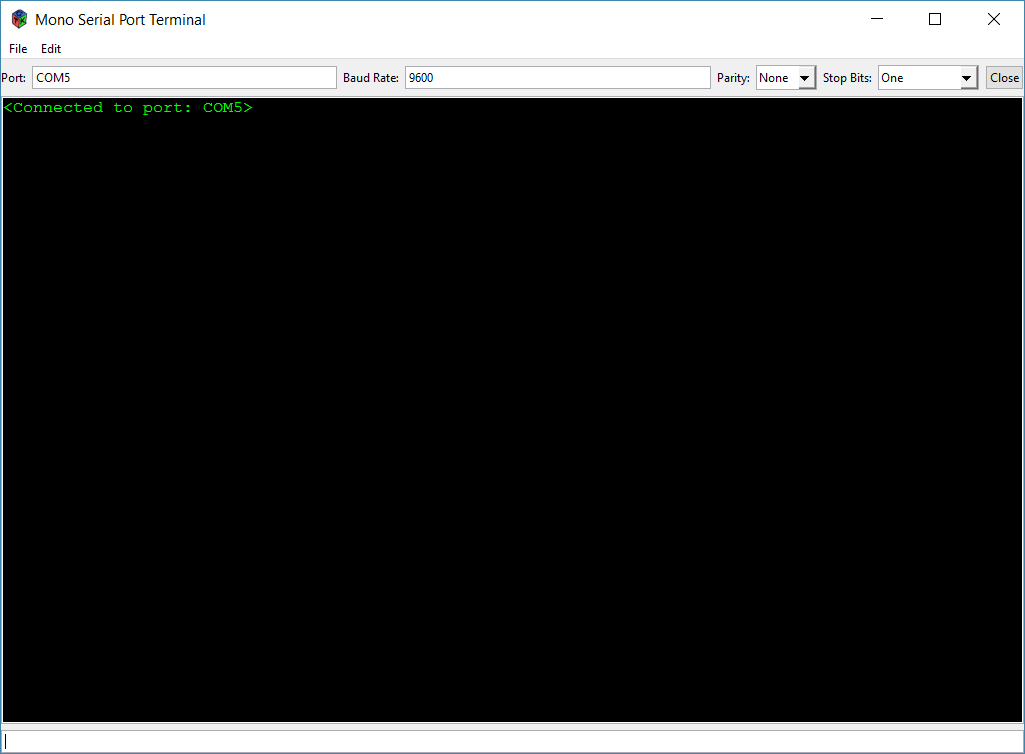
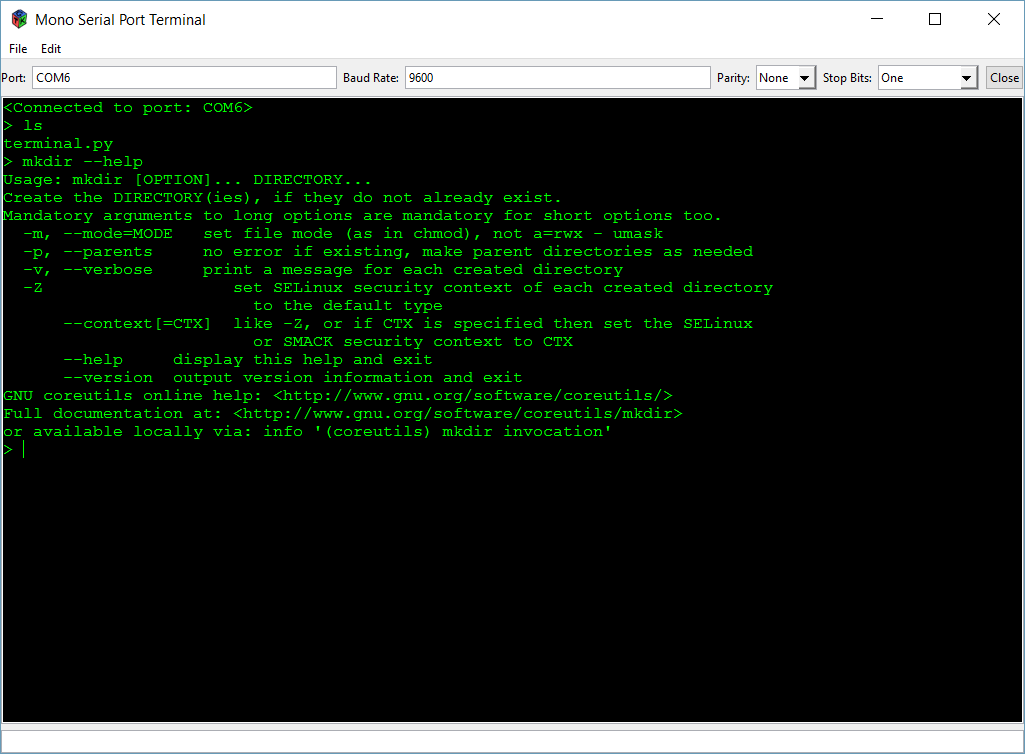
Improved message output. Updated screenshot.

diff --git a/trunk/MonoSerial/MainWindow.cs b/trunk/MonoSerial/MainWindow.cs
@@ -131,7 +131,7 @@ public partial class MainWindow : Gtk.Window
 
     protected void OutputText(string aText)
     {
-
+	           
         if (_settings.AppendOption == MonoSerial.SettingsDialog.Append.CR)
             aText += "\r";
         else if (_settings.AppendOption == MonoSerial.SettingsDialog.Append.LF)
@@ -147,7 +147,7 @@ public partial class MainWindow : Gtk.Window
 	protected void OutputMessage(string aText)
 	{
 
-		this.txtSerialData.Buffer.Text += aText;
+		this.txtSerialData.Buffer.Text += aText + Environment.NewLine;
 		this.txtSerialData.ScrollToIter(this.txtSerialData.Buffer.EndIter, 0, false, 0, 0);
 
 	}
@@ -332,7 +332,7 @@ public partial class MainWindow : Gtk.Window
 
                 this.txtSerialData.IsFocus = true;
 
-                OutputText("<Connected to port: " + txtPort.Text + ">" + Environment.NewLine);
+                OutputMessage("<Connected to port: " + txtPort.Text + ">");
 
                 _t1 = new Thread(ReadData);
                 _t1.Start();
@@ -341,7 +341,7 @@ public partial class MainWindow : Gtk.Window
             catch (Exception)
             {
 
-                OutputText("Error: Unable to open port: " + txtPort.Text + Environment.NewLine);
+                OutputMessage("Error: Unable to open port: " + txtPort.Text);
 
             }
 
@@ -355,7 +355,7 @@ public partial class MainWindow : Gtk.Window
                 _serialPort.Close();
                 this.cmdConnect.Label = "Open";
 
-                OutputText("<Connection closed.>" + Environment.NewLine);
+                OutputMessage("<Connection closed.>");
 
                 _t1.Join();
 
@@ -363,7 +363,7 @@ public partial class MainWindow : Gtk.Window
             catch (Exception)
             {
 
-                OutputText("Error: closing connection." + Environment.NewLine);
+                OutputMessage("Error: closing connection.");
 
             }
 
@@ -405,13 +405,13 @@ public partial class MainWindow : Gtk.Window
                     }
                 }
 
-                OutputMessage("File sent: " + aFileChooser.Filename + Environment.NewLine);
+                OutputMessage("File sent: " + aFileChooser.Filename);
 
             }
             catch (Exception)
             {
 
-                OutputMessage("Error: Unable to write data to serial port." + Environment.NewLine);
+                OutputMessage("Error: Unable to write data to serial port.");
 
             }
 
@@ -459,7 +459,7 @@ public partial class MainWindow : Gtk.Window
 		catch (Exception)
 		{
 
-			OutputMessage("Error: Unable to write data to serial port." + Environment.NewLine);
+			OutputMessage("Error: Unable to write data to serial port.");
 
 		}
 
@@ -488,6 +488,8 @@ public partial class MainWindow : Gtk.Window
 			key == Gdk.Key.Alt_R ||
 			key == Gdk.Key.Alt_L ||
 		  	key == Gdk.Key.Caps_Lock ||
+		  	key == Gdk.Key.Num_Lock ||
+		    key == Gdk.Key.Scroll_Lock ||
 		    key == Gdk.Key.Print ||
 		 	key == Gdk.Key.Home ||
 		 	key == Gdk.Key.End ||
@@ -508,7 +510,18 @@ public partial class MainWindow : Gtk.Window
 		   	key == Gdk.Key.F9 ||
 		   	key == Gdk.Key.F10 ||
 			key == Gdk.Key.F11 ||
-		 	key == Gdk.Key.F12)
+		 	key == Gdk.Key.F12 ||
+			key == Gdk.Key.KP_Multiply ||
+			key == Gdk.Key.KP_Divide ||
+			key == Gdk.Key.KP_1 ||
+			key == Gdk.Key.KP_2 ||
+			key == Gdk.Key.KP_3 ||
+			key == Gdk.Key.KP_4 ||
+			key == Gdk.Key.KP_5 ||
+			key == Gdk.Key.KP_6 ||
+			key == Gdk.Key.KP_7 ||
+			key == Gdk.Key.KP_8 ||
+		    key == Gdk.Key.KP_9)
 		{
 			return true;
 		}
@@ -538,7 +551,9 @@ public partial class MainWindow : Gtk.Window
 			}
 			else if (args.Event.Key == Gdk.Key.BackSpace)
 			{
-   				this.txtSerialData.Buffer.Text = this.txtSerialData.Buffer.Text.Substring(0, this.txtSerialData.Buffer.Text.Length - 1);
+				if (this.txtSerialData.Buffer.Text.Length > 0)
+   					this.txtSerialData.Buffer.Text = this.txtSerialData.Buffer.Text.Substring(0, this.txtSerialData.Buffer.Text.Length - 1);
+
 				_outBuffer[0] = (char)8;
 				_serialPort.Write(_outBuffer, 0, 1);
             }
@@ -558,7 +573,7 @@ public partial class MainWindow : Gtk.Window
 		catch (Exception)
 		{
 
-			OutputMessage("Error: Unable to write data to serial port." + Environment.NewLine);
+			OutputMessage("Error: Unable to write data to serial port.");
 
 		}
 		finally

diff --git a/trunk/MonoSerial/gtk-gui/MainWindow.cs b/trunk/MonoSerial/gtk-gui/MainWindow.cs
@@ -168,7 +168,7 @@ public partial class MainWindow
 		this.cmdConnect.CanFocus = true;
 		this.cmdConnect.Name = "cmdConnect";
 		this.cmdConnect.UseUnderline = true;
-		this.cmdConnect.Label = global::Mono.Unix.Catalog.GetString("Connect");
+		this.cmdConnect.Label = global::Mono.Unix.Catalog.GetString("Open");
 		this.hboxMain.Add(this.cmdConnect);
 		global::Gtk.Box.BoxChild w11 = ((global::Gtk.Box.BoxChild)(this.hboxMain[this.cmdConnect]));
 		w11.Position = 9;
